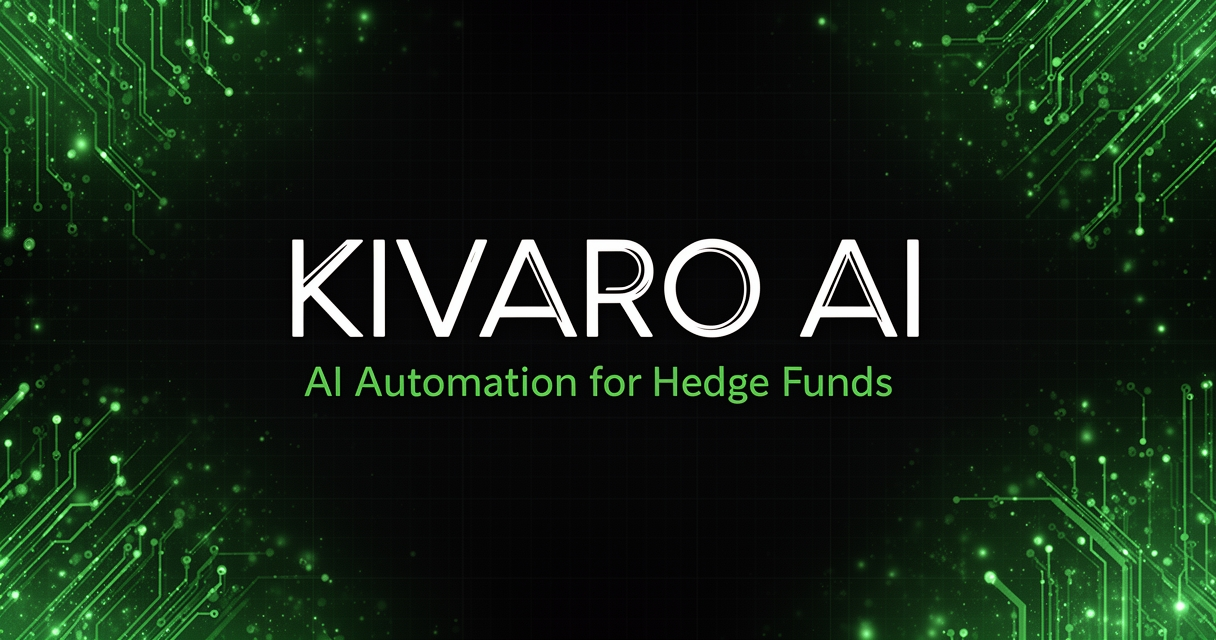
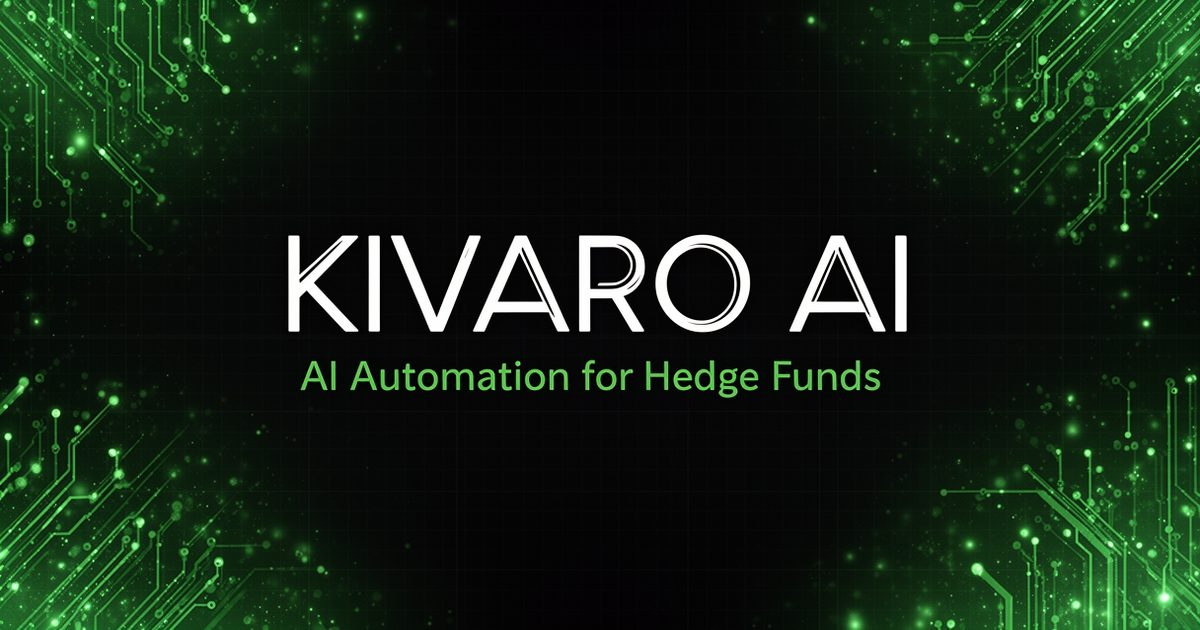
Website SEO and speed: prerendered home, right domain, lighter first load
- The canonical URL and og:url pointed at kivaro.ai; they now use
  www.kivaroai.com (SITE_URL in usePageMeta).
- og/twitter images are absolute, 1200x630 and 96 KB (was 520 KB), with
  size and alt tags; structured data uses the real logo.
- Icons sized for their use: favicon 32/48 px, Apple touch 180 px, a web
  manifest with 192/512 px. favicon.png was 1 MB, apple-touch-icon 757 KB.
- The home page is rendered to HTML at build time (src/entry-server.tsx,
  scripts/prerender.mjs), so crawlers and link previews read the page
  instead of an empty root. Never fails the build.
- First load: Supabase leaves the main bundle (analytics and the contact
  form load it after paint; the auth guards move into the admin chunks),
  React and framer-motion get long-cached vendor chunks, and the chat
  widget waits until the page is idle. Entry 560 KB -> 49 KB; what loads
  before paint ~168 KB -> ~118 KB gzipped.
- A real 404 page (noindex) instead of a blank screen; sitemap lastmod.

diff --git a/index.html b/index.html
@@ -2,7 +2,11 @@
 <html lang="en" class="dark">
   <head>
     <meta charset="UTF-8" />
-    <link rel="icon" type="image/png" href="/favicon.png" />
+    <link rel="icon" href="/favicon.ico" sizes="any" />
+    <link rel="icon" type="image/png" sizes="32x32" href="/favicon-32.png" />
+    <link rel="icon" type="image/png" sizes="48x48" href="/favicon-48.png" />
+    <link rel="manifest" href="/site.webmanifest" />
+    <meta name="theme-color" content="#080c0a" />
     <link rel="apple-touch-icon" sizes="180x180" href="/apple-touch-icon.png" />
     <meta name="viewport" content="width=device-width, initial-scale=1.0" />
 
@@ -15,16 +19,22 @@
 
     <!-- Open Graph -->
     <meta property="og:type" content="website" />
-    <meta property="og:url" content="https://www.kivaroai.com" />
+    <meta property="og:url" content="https://www.kivaroai.com/" />
+    <meta property="og:site_name" content="Kivaro AI" />
+    <meta property="og:locale" content="en_US" />
     <meta property="og:title" content="Kivaro AI — AI Automation & Intelligence for Institutional Investment Firms" />
     <meta property="og:description" content="Kivaro AI builds secure AI workflows for hedge funds, private equity, venture capital and quant funds, and the research, operations, compliance and investor-relations teams inside them. Cited diligence drafts, deck triage and pre-market briefs, on your own data." />
-    <meta property="og:image" content="/og-image.jpg" />
+    <meta property="og:image" content="https://www.kivaroai.com/og-image.jpg" />
+    <meta property="og:image:width" content="1200" />
+    <meta property="og:image:height" content="630" />
+    <meta property="og:image:alt" content="Kivaro AI: AI automation and intelligence for institutional investment firms" />
 
     <!-- Twitter Card -->
     <meta name="twitter:card" content="summary_large_image" />
     <meta name="twitter:title" content="Kivaro AI — AI Automation & Intelligence for Institutional Investment Firms" />
     <meta name="twitter:description" content="Kivaro AI builds secure AI workflows for hedge funds, private equity, venture capital and quant funds, and the research, operations, compliance and investor-relations teams inside them. Cited diligence drafts, deck triage and pre-market briefs, on your own data." />
-    <meta name="twitter:image" content="/og-image.jpg" />
+    <meta name="twitter:image" content="https://www.kivaroai.com/og-image.jpg" />
+    <meta name="twitter:image:alt" content="Kivaro AI: AI automation and intelligence for institutional investment firms" />
 
     <!-- Schema.org Structured Data: Organization + LocalBusiness -->
     <script type="application/ld+json">
@@ -33,7 +43,8 @@
       "@type": ["Organization", "LocalBusiness"],
       "name": "Kivaro AI",
       "url": "https://www.kivaroai.com",
-      "logo": "https://www.kivaroai.com/og-image.jpg",
+      "logo": "https://www.kivaroai.com/logo.png",
+      "image": "https://www.kivaroai.com/og-image.jpg",
       "description": "Kivaro AI builds secure AI workflows for hedge funds, private equity, venture capital and quant funds, and the research, operations, compliance and investor-relations teams inside them. Cited diligence drafts, deck triage and pre-market briefs, run on each firm's own data, for firms across the Southern United States.",
       "foundingDate": "2025",
       "founder": {
@@ -104,7 +115,7 @@
       "@context": "https://schema.org",
       "@type": "WebSite",
       "name": "Kivaro AI",
-      "url": "https://www.kivaroai.com",
+      "url": "https://www.kivaroai.com/",
       "description": "AI Automation & Intelligence for Institutional Investment Firms",
       "publisher": {
         "@type": "Organization",
@@ -122,7 +133,8 @@
     <div id="root"></div>
     <script type="module" src="/src/main.tsx"></script>
     <script type="text/javascript">
-      (function(d, t) {
+      // Deferred: the chat widget loads once the page is up and idle.
+      function loadVoiceflow(d, t) {
         var v = d.createElement(t), s = d.getElementsByTagName(t)[0];
         v.onload = function() {
           window.voiceflow.chat.load({
@@ -135,7 +147,12 @@
           });
         }
         v.src = "https://cdn.voiceflow.com/widget-next/bundle.mjs"; v.type = "text/javascript"; s.parentNode.insertBefore(v, s);
-      })(document, 'script');
+      }
+      window.addEventListener('load', function () {
+        var start = function () { loadVoiceflow(document, 'script'); };
+        if ('requestIdleCallback' in window) window.requestIdleCallback(start, { timeout: 4000 });
+        else setTimeout(start, 2000);
+      });
     </script>
   </body>
 </html>

diff --git a/src/App.tsx b/src/App.tsx
@@ -3,27 +3,11 @@ import { Routes, Route, Navigate } from 'react-router-dom';
 import Layout from '@/components/layout/Layout';
 import LoadingScreen from '@/components/features/LoadingScreen';
 import { Toaster } from '@/components/features/Toaster';
-import { useAuth } from '@/hooks/useAuth';
 
 const Home = lazy(() => import('@/pages/Home'));
-const AdminLogin = lazy(() => import('@/pages/AdminLogin'));
-const AdminDashboard = lazy(() => import('@/pages/AdminDashboard'));
-
-function ProtectedRoute({ children }: { children: React.ReactNode }) {
-  const { user, loading } = useAuth();
-
-  if (loading) return <LoadingScreen />;
-  if (!user) return <Navigate to="/admin/login" replace />;
-  return <>{children}</>;
-}
-
-function PublicOnlyRoute({ children }: { children: React.ReactNode }) {
-  const { user, loading } = useAuth();
-
-  if (loading) return <LoadingScreen />;
-  if (user) return <Navigate to="/admin" replace />;
-  return <>{children}</>;
-}
+const AdminLogin = lazy(() => import('@/pages/AdminLoginRoute'));
+const AdminDashboard = lazy(() => import('@/pages/AdminDashboardRoute'));
+const NotFound = lazy(() => import('@/pages/NotFound'));
 
 function App() {
   return (
@@ -43,22 +27,11 @@ function App() {
           <Route element={<Layout />}>
             <Route path="/" element={<Home />} />
           </Route>
-          <Route
-            path="/admin/login"
-            element={
-              <PublicOnlyRoute>
-                <AdminLogin />
-              </PublicOnlyRoute>
-            }
-          />
-          <Route
-            path="/admin"
-            element={
-              <ProtectedRoute>
-                <AdminDashboard />
-              </ProtectedRoute>
-            }
-          />
+          <Route path="/admin/login" element={<AdminLogin />} />
+          <Route path="/admin" element={<AdminDashboard />} />
+          <Route element={<Layout />}>
+            <Route path="*" element={<NotFound />} />
+          </Route>
         </Routes>
       </Suspense>
       <Toaster />

diff --git a/src/pages/NotFound.tsx b/src/pages/NotFound.tsx
@@ -1,27 +1,34 @@
-import { useLocation } from "react-router-dom";
-import { useEffect } from "react";
+import { useEffect } from 'react';
+import { Link, useLocation } from 'react-router-dom';
 
-const NotFound = () => {
-  const location = useLocation();
+export default function NotFound() {
+  const { pathname } = useLocation();
 
+  // Vercel serves the app for every path, so the 404 is told to crawlers
+  // here: don't index this address.
   useEffect(() => {
-    console.error(
-      "404 Error: User attempted to access non-existent route:",
-      location.pathname
-    );
-  }, [location.pathname]);
+    const meta = document.createElement('meta');
+    meta.name = 'robots';
+    meta.content = 'noindex';
+    document.head.appendChild(meta);
+    const previous = document.title;
+    document.title = 'Page not found | Kivaro AI';
+    return () => {
+      meta.remove();
+      document.title = previous;
+    };
+  }, []);
 
   return (
-    <div className="min-h-screen flex items-center justify-center bg-gray-100">
-      <div className="text-center">
-        <h1 className="text-4xl font-bold mb-4">404</h1>
-        <p className="text-xl text-gray-600 mb-4">Oops! Page not found</p>
-        <a href="/" className="text-blue-500 hover:text-blue-700 underline">
-          Return to Home
-        </a>
-      </div>
-    </div>
+    <section className="container mx-auto flex min-h-[60vh] flex-col items-center justify-center gap-4 px-4 text-center">
+      <p className="font-mono text-sm text-muted-foreground">404 · {pathname}</p>
+      <h1 className="text-3xl font-bold">This page doesn&apos;t exist.</h1>
+      <p className="max-w-md text-muted-foreground">
+        Everything about Kivaro AI is on one page: our services, how we deploy, and how to reach us.
+      </p>
+      <Link to="/" className="underline underline-offset-4">
+        Go to the home page
+      </Link>
+    </section>
   );
-};
-
-export default NotFound;
+}

diff --git a/src/entry-server.tsx b/src/entry-server.tsx
@@ -1,0 +1,22 @@
+import { renderToString } from 'react-dom/server';
+import { StaticRouter } from 'react-router-dom/server';
+import { Route, Routes } from 'react-router-dom';
+import Layout from '@/components/layout/Layout';
+import Home from '@/pages/Home';
+
+// Build-time only (scripts/prerender.mjs): the home page rendered to HTML,
+// so crawlers and link previews read the real page instead of an empty
+// <div id="root">. The browser still renders the app itself on load
+// (main.tsx), replacing this markup; the 3D hero is lazy, so it stays out
+// of the static HTML (its Suspense fallback is what renders here).
+export function render(url: string): string {
+  return renderToString(
+    <StaticRouter location={url}>
+      <Routes>
+        <Route element={<Layout />}>
+          <Route path="/" element={<Home />} />
+        </Route>
+      </Routes>
+    </StaticRouter>,
+  );
+}

diff --git a/src/components/features/ContactForm.tsx b/src/components/features/ContactForm.tsx
@@ -3,8 +3,6 @@ import { useToast } from '@/hooks/use-toast';
 import { Send, CheckCircle2 } from 'lucide-react';
 import { cn } from '@/lib/utils';
 import { motion, AnimatePresence } from 'framer-motion';
-import { supabase } from '@/lib/supabase';
-import { FunctionsHttpError } from '@supabase/supabase-js';
 
 const INQUIRY_TYPES = [
   'Pilot Application',
@@ -39,6 +37,12 @@ export default function ContactForm() {
     setSending(true);
 
     try {
+      // Loaded on submit, not with the page: most visitors never send it,
+      // and the Supabase client is a large part of the bundle.
+      const [{ supabase }, { FunctionsHttpError }] = await Promise.all([
+        import('@/lib/supabase'),
+        import('@supabase/supabase-js'),
+      ]);
       const { data, error } = await supabase.functions.invoke('submit-inquiry', {
         body: {
           name: formData.name,

diff --git a/src/lib/analytics.ts b/src/lib/analytics.ts
@@ -1,4 +1,6 @@
-import { supabase } from './supabase';
+// The Supabase client loads after the page has painted, on the first view
+// tracked, rather than with the bundle every visitor waits for.
+const db = () => import('./supabase').then((m) => m.supabase);
 
 const SID_KEY   = 'kv_sid';
 const SINIT_KEY = 'kv_sinit';
@@ -31,6 +33,7 @@ function detectBrowser(): string {
 
 async function ensureSession(page: string): Promise<void> {
   if (sessionStorage.getItem(SINIT_KEY)) return;
+  const supabase = await db();
   const sessionId = getSessionId();
   const params = new URLSearchParams(window.location.search);
 
@@ -57,6 +60,7 @@ export async function trackPageView(page: string): Promise<void> {
 
   try {
     await ensureSession(page);
+    const supabase = await db();
 
     const sessionId = getSessionId();
     const now = Date.now();

diff --git a/src/components/admin/RouteGuards.tsx b/src/components/admin/RouteGuards.tsx
@@ -1,0 +1,21 @@
+import { Navigate } from 'react-router-dom';
+import LoadingScreen from '@/components/features/LoadingScreen';
+import { useAuth } from '@/hooks/useAuth';
+
+// Only the admin pages import these, so the auth hook and the Supabase
+// client load with them and not with the public site.
+export function ProtectedRoute({ children }: { children: React.ReactNode }) {
+  const { user, loading } = useAuth();
+
+  if (loading) return <LoadingScreen />;
+  if (!user) return <Navigate to="/admin/login" replace />;
+  return <>{children}</>;
+}
+
+export function PublicOnlyRoute({ children }: { children: React.ReactNode }) {
+  const { user, loading } = useAuth();
+
+  if (loading) return <LoadingScreen />;
+  if (user) return <Navigate to="/admin" replace />;
+  return <>{children}</>;
+}

diff --git a/vite.config.ts b/vite.config.ts
@@ -11,6 +11,19 @@ export default defineConfig({
   plugins: [
     react(),
   ],
+  build: {
+    rollupOptions: {
+      output: {
+        manualChunks(id) {
+          if (!id.includes('node_modules')) return undefined;
+          if (/[\\/]node_modules[\\/](react|react-dom|scheduler|react-router|react-router-dom|@remix-run)[\\/]/.test(id)) return 'react';
+          if (id.includes('framer-motion') || id.includes('motion-dom') || id.includes('motion-utils')) return 'motion';
+          if (id.includes('@radix-ui')) return 'radix';
+          return undefined;
+        },
+      },
+    },
+  },
   resolve: {
     alias: {
       "@": path.resolve(__dirname, "./src"),

diff --git a/src/hooks/usePageMeta.ts b/src/hooks/usePageMeta.ts
@@ -1,5 +1,7 @@
 import { useEffect } from 'react';
 
+export const SITE_URL = 'https://www.kivaroai.com';
+
 interface PageMeta {
   title: string;
   description: string;
@@ -33,7 +35,7 @@ export function usePageMeta({ title, description, canonicalPath }: PageMeta) {
 
     // Update OG URL
     const ogUrl = document.querySelector('meta[property="og:url"]');
-    const fullUrl = `https://www.kivaro.ai${canonicalPath || '/'}`;
+    const fullUrl = `${SITE_URL}${canonicalPath || '/'}`;
     if (ogUrl) ogUrl.setAttribute('content', fullUrl);
 
     // Set canonical link

diff --git a/src/pages/AdminDashboardRoute.tsx b/src/pages/AdminDashboardRoute.tsx
@@ -1,0 +1,10 @@
+import AdminDashboard from '@/pages/AdminDashboard';
+import { ProtectedRoute } from '@/components/admin/RouteGuards';
+
+export default function AdminDashboardRoute() {
+  return (
+    <ProtectedRoute>
+      <AdminDashboard />
+    </ProtectedRoute>
+  );
+}

diff --git a/src/pages/AdminLoginRoute.tsx b/src/pages/AdminLoginRoute.tsx
@@ -1,0 +1,10 @@
+import AdminLogin from '@/pages/AdminLogin';
+import { PublicOnlyRoute } from '@/components/admin/RouteGuards';
+
+export default function AdminLoginRoute() {
+  return (
+    <PublicOnlyRoute>
+      <AdminLogin />
+    </PublicOnlyRoute>
+  );
+}
